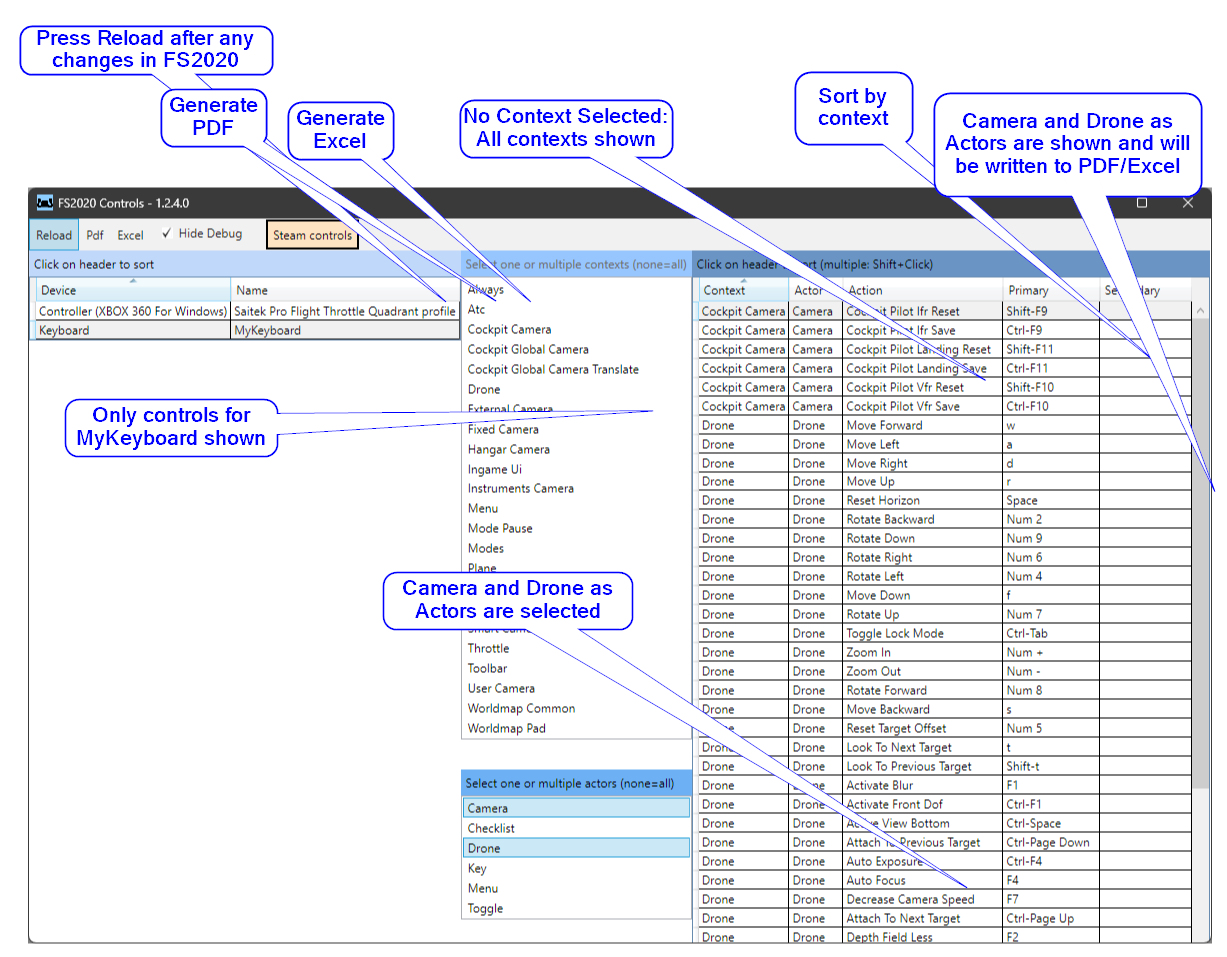
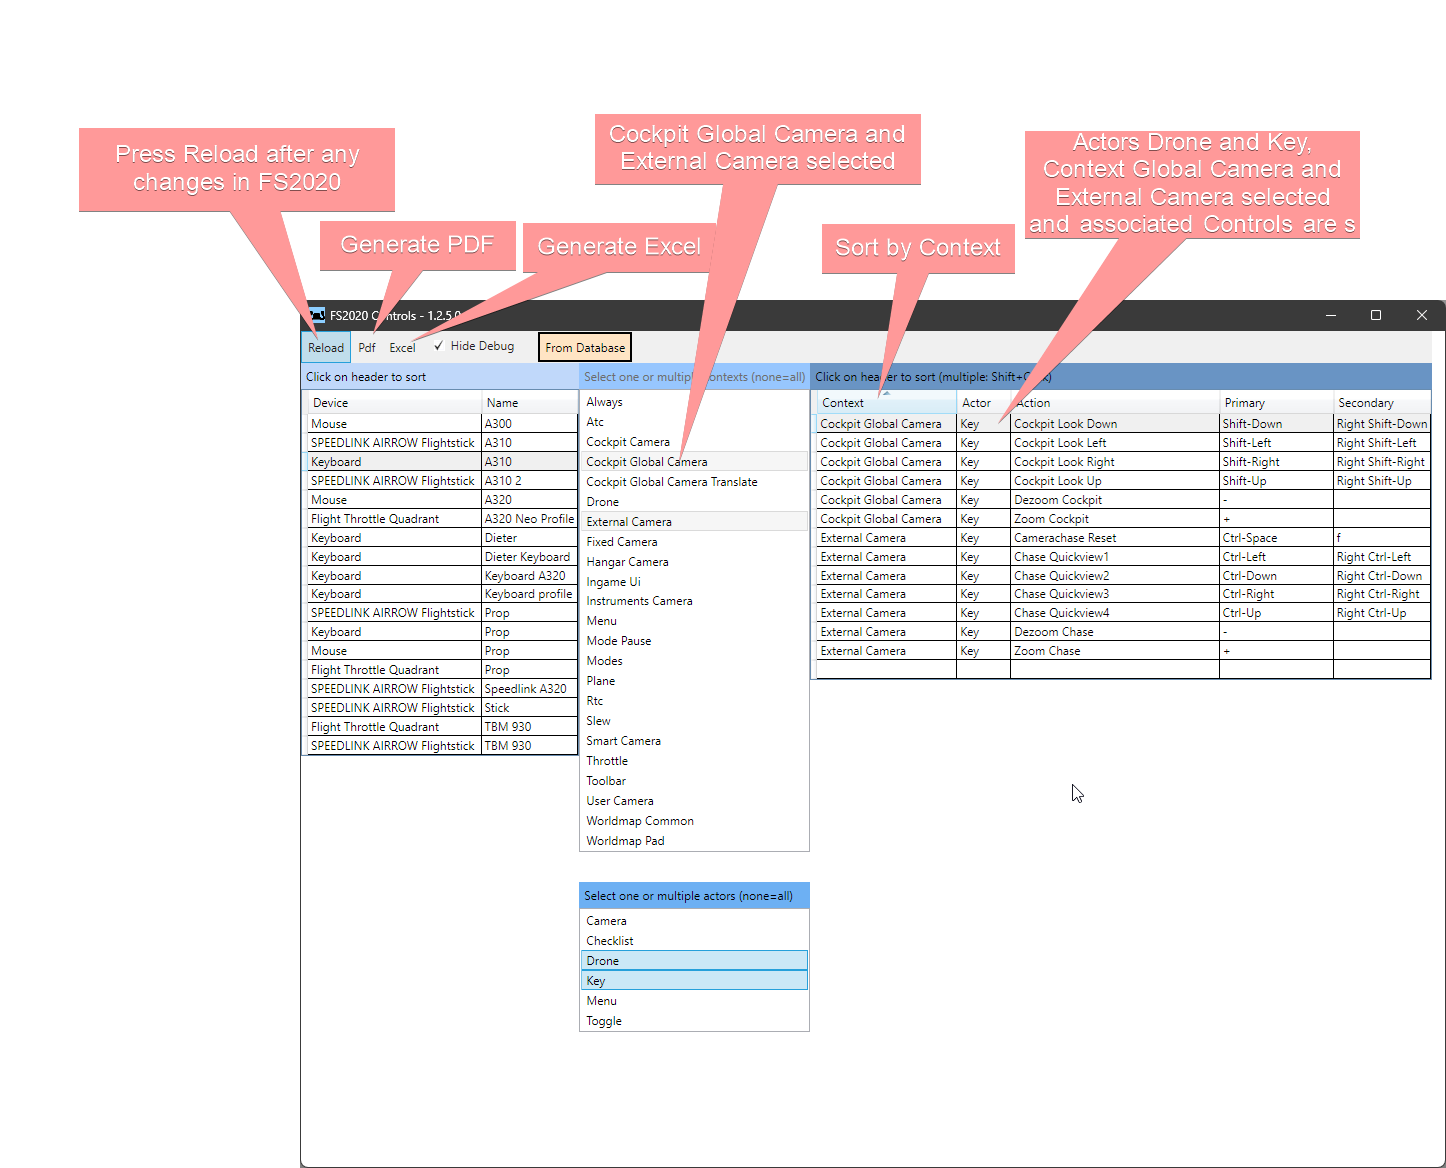
Edited README and main image

diff --git a/README.md b/README.md
@@ -21,10 +21,10 @@ the local copies of the control settings can be found in a file with a path like
 
 or, much simpler for Steam installations
 
-  C:\Program Files (x86)\Steam\userdata\123456789\1250410
+    C:\Program Files (x86)\Steam\userdata\123456789\1250410
 
-where 1250410 seems to be fixed, while the first numeric string is different in 
-all installations.
+where `1250410` seems to be fixed, while the first numeric string is different in 
+all installations. See also [this thread](https://forums.flightsimulator.com/t/where-can-i-save-the-control-profile-settings-file/347750/2).
 
 Whenever changes are made in the control settings of FS2020, the device's settings file 
 is deleted and replaced by another file with cryptic name.
